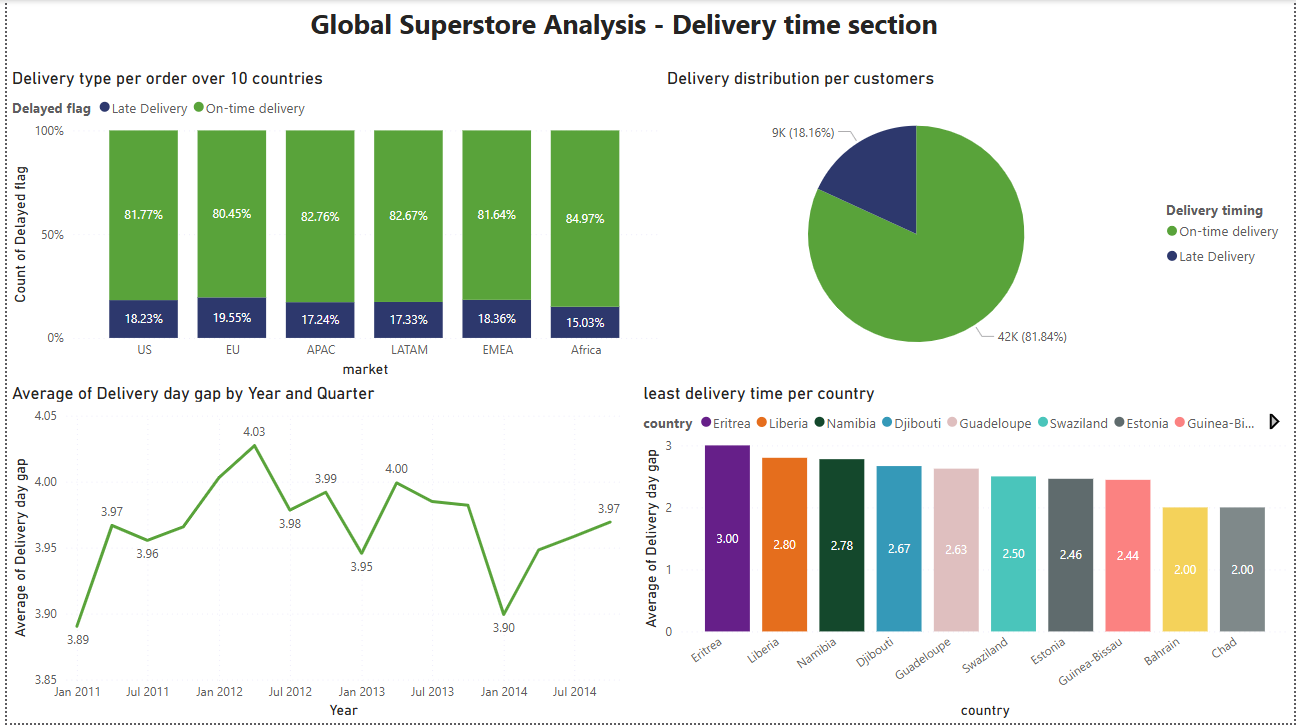
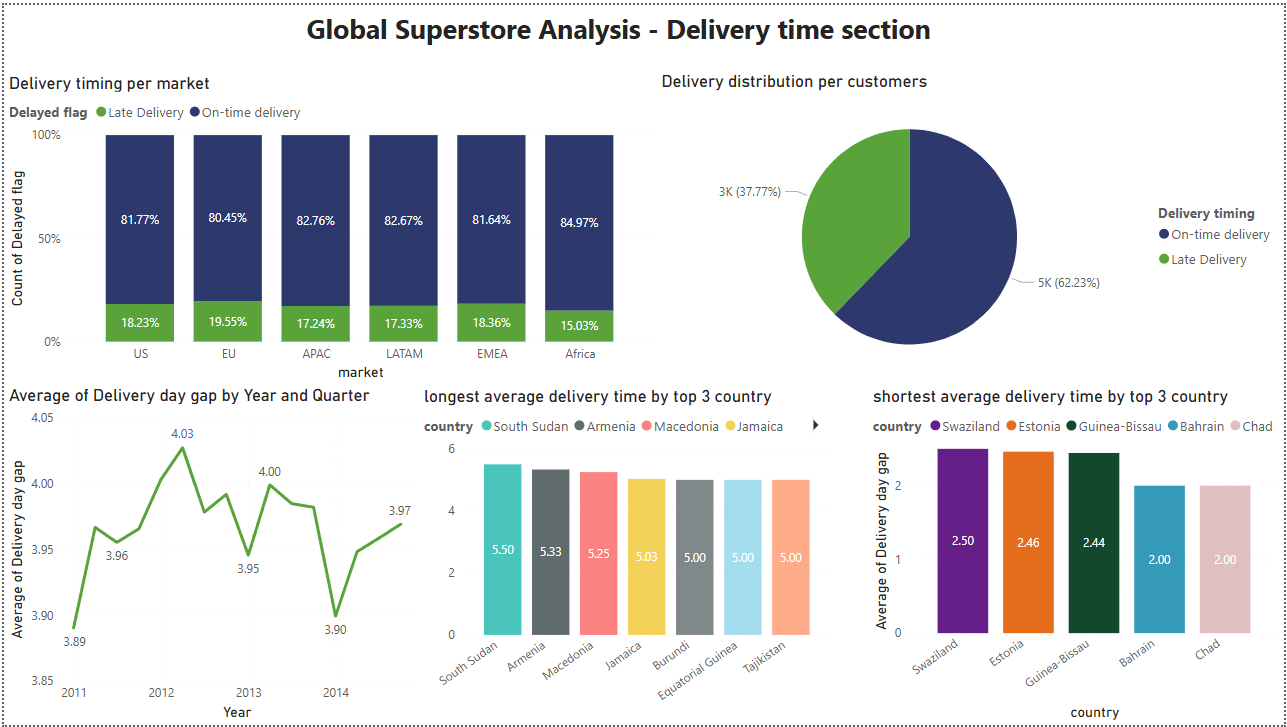
temp commit readme

diff --git a/readme.md b/readme.md
@@ -39,13 +39,13 @@ Key columns are -
 - relation between profit and discount over the years? Does giving more discount benefits the business?
 
 
-## Some visual insights
+## Visual Insights
 
 ### Analysis of the customer base
 
 <img src="png/Customer analysis.png" width="900"/><br>
 
-**1.** _The customer base is pretty fairly distributed among APAC, EU, LATAM, US, EMEA and AFRICA. While the market in CANADA is still yet to develop. Conducting a new marketing program can be beneficial for the company._
+**1.** _The customer base is pretty fairly distributed among APAC, EU, LATAM, US, EMEA and AFRICA. While the market in CANADA is yet to develop. Conducting a new marketing program can be beneficial for the company._
 
 **2.** _Also another report shows that the customer retention increased over the year while the transactions of new customers has been decreasing. This highlights a marketing issue of the company, signaling that a restructural change in its marketing is needed._
 
@@ -56,7 +56,7 @@ RFM stands for -
 - **Frequency** - _how often a customer do transactions._
 - **Monetary** - _how much a customer has spent in total value._
 
-<img src="png/RFM logic.png" width="600"/><br>
+<img src="png/RFM logic.png" width="800"/><br>
 
 - _approximately 2.9k customers falls in "potential loyalist" category. There purchase history shows a pretty fair transaction gap but they aren't close to being loyal._
 - _approximately 2.8k customers falls in "at risk" category. This base of customer has a gap of transaction over 120 days, highlighting a potential churn risk._
@@ -67,10 +67,33 @@ RFM stands for -
 
 **4.** _the customer growth reports shows a significant growth in every regions over the year, indicating a smooth reputation build-up. African regions has maintained a linear growth of customer base over the year._
 
-### Product Analysis
+### Delivery Timing analysis
 
-<img src="png/Product analysis part 1.png" width="900"/></br>
+<img src="png/Delivery time analysis.png" width="900"/><br>
+
+**1.** _From the average delivery report, south sudan from african market has seen the highest average deliver day(approx. 6 days), while chad, which is also from african market has the shortest average gap between their delivery day(2 days)._
+
+**2.** _From the average delivery day gap by year and quarter report, the business maintained good delivery day average(approx. 4 days) through 2011, before it hit 4.03 mark in 2012 q2. The second time it hit the lowest average delivery day in Q1 of 2014(3.90)._
+
+
+### Product analysis
+
+<img src="png/Product analysis part 1.png" width="900"/><br>
 
 <img src="png/Product analysis part 2.png" width="900"/><br>
 
+**💡 Key insights**
+
+**1.** _The Top 10 Profitable Products Report highlights key revenue-driving items across customer segments.
+
+**Canon imageClass 2200 Advanced Copier** generated the **highest overall profit**, earning approximately $13,000 from Consumer grade customers and $8,000 from Corporate grade customers. It ranks as the top-performing product for both these segments, signalling its high demand and profit making ability among corporate level workspaces.
+
+On the other hand, the **Motorola Smartphone(Full Size)** got the most revenue generated out of the Home Office grade customers, which is the top segment in the customer group._
+
+**2.** _The total Sales by sub-category report has revealed that **Phones**, **Copiers** and **Chairs** has sold the most among all other sub-categories, signalling a strong Technology Dominated market for the business. These 3 sub-categories combined contributed to 37.3% Sales value to the total sales value._
+
+**3.** _Staples has the most quantity(876) sold among all other products._
+
+**4.** _**Apple Smart Phone(Full Size)** was sold the most over the years, making $6000 in profit for the company, which ranks at **5th** position of profit making in the Top 10 product by sales and profit chart. On the other hand, **Samsung Smart Phone (cordless)** has made close to $0 profit for the company, which raises major concern for the brand._
+**The Apple Smartphone (Full Size)** generated approximately $87,000 in total sales, with the majority of this revenue coming from the African region. Quite Interestingly, Africa contributes only 6.2% of the total sales value and has shown weak, linear customer growth over the years. It may highlight a shift towards customer's preferrence._
 
